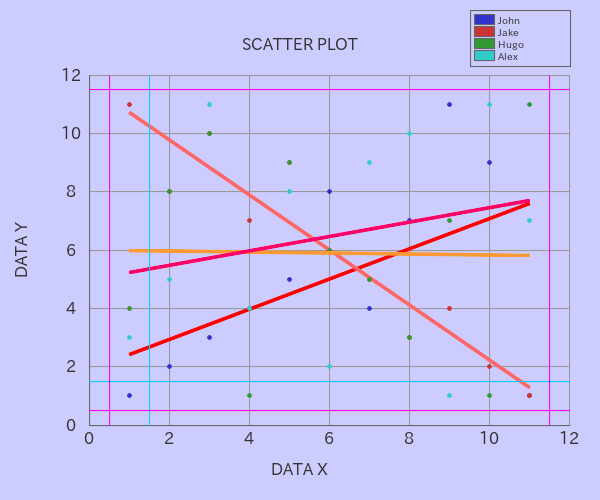
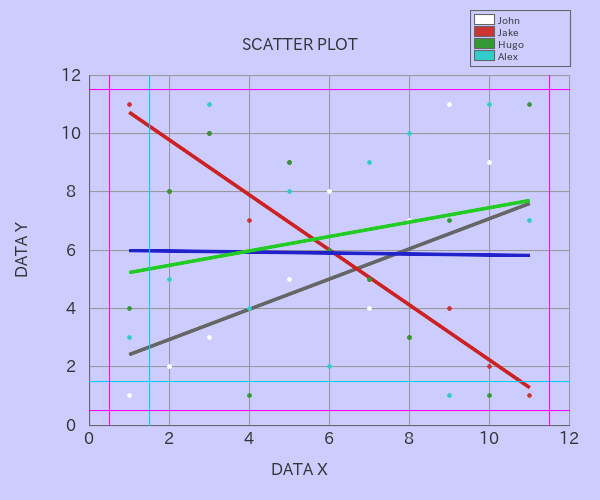
Release 1.0.0

diff --git a/src/Scatterplot.php b/src/Scatterplot.php
@@ -219,13 +219,18 @@ class Scatterplot extends Plotter
 
     /**
      * sets the color of dots
-     * @param string $color
+     * @param array $color
      * @return self
      */
-    public function color($color)
+    public function colors($colors)
     {
-        if (!$this->isColorCode($color)) return;
-        $this->plotColor = $color;
+        if (!is_array($colors)) return;
+        foreach ($colors as $index => $color) {
+            if (!is_int($index)) return;
+            if ($index < 0 || $index > LIMIT_LAYERS) return;
+            if (!$this->isColorCode($color)) return;
+            $this->colors[$index] = $color;
+        }
         return $this;
     }
 
@@ -374,17 +379,22 @@ class Scatterplot extends Plotter
     /**
      * sets the width and color of the regression line
      * @param integer $width
-     * @param string $color
+     * @param array $color
      * @return self
      */
-    public function regressionLine($width, $color)
+    public function regressionLine($width, $colors)
     {
         if (!is_int($width)) return;
         if ($width < 1) return;
-        if (!$this->isColorCode($color)) return;
+        if (!is_array($colors)) return;
+        foreach ($colors as $index => $color) {
+            if (!is_int($index)) return;
+            if ($index < 0 || $index > LIMIT_LAYERS) return;
+            if (!$this->isColorCode($color)) return;
+            $this->regressionLineColors[$index] = $color;
+        }
         $this->regressionLine = true;
         $this->regressionLineWidth = $width;
-        $this->regressionLineColor = $color;
         return $this;
     }
 
@@ -564,6 +574,15 @@ class Scatterplot extends Plotter
     {
         $this->specificationLimitXOff();
         $this->specificationLimitYOff();
+        return $this;
+    }
+
+    /**
+     * sets regression line on
+     */
+    public function regressionLineOn()
+    {
+        $this->regressionLine = true;
         return $this;
     }
 

diff --git a/example/ChangingProperties.php b/example/ChangingProperties.php
@@ -32,13 +32,13 @@ $sp->layers($layers)
    ->gridXPitch(2)
    ->gridYPitch(2)
    ->bgcolor('#ccccff')
-   ->color('#ffffff')
+   ->colors(['#ffffff'])
    ->plotSize(4)
    ->fontColor('#333333')
    ->grid(1, '#999999')
    ->gridXOn()
    ->gridYOn()
-   ->regressionLine(3, '#cc2222')
+   ->regressionLine(3, ['#666666', '#cc2222', '#2222cc', '#22cc22'])
    ->referenceLineX(1.5, 1, '#00ccff')
    ->referenceLineY(1.5, 1, '#00ccff')
    ->specificationLimitX(0.5, 11.5, 1, '#ff00ff')

diff --git a/src/Plotter.php b/src/Plotter.php
@@ -37,7 +37,7 @@ class Plotter extends Analyzer
     protected $yLimitUpper;
     protected $yLimitLower;
     protected $plotDiameter = 2;
-    protected $plotColor = '#000000';
+    protected $plotColors = '#000000';
     protected $fontPath = 'fonts/ipaexg.ttf'; // IPA ex Gothic 00401
     //protected $fontPath = 'fonts/ipaexm.ttf'; // IPA ex Mincho 00401
     protected $fontSize = 16;

diff --git a/example/ParsedData.php b/example/ParsedData.php
@@ -1,9 +1,9 @@
 <?php
 require('../vendor/autoload.php');
 
-use Macocci7\PhpScatterplot\Scatterplot;
+use Macocci7\PhpScatterplot\Analyzer;
 
-$sp = new Scatterplot();
+$a = new Analyzer();
 
 $layers = [
     'John' => [
@@ -16,4 +16,4 @@ $layers = [
     ],
 ];
 
-var_dump($sp->parse($layers));
+var_dump($a->parse($layers));

diff --git a/README.md b/README.md
@@ -17,6 +17,7 @@ Correlation Coefficient and Regression Line Formula.
     - [Basic Usage](#basic-usage)
     - [Using Layers](#using-layers)
     - [Changing Properties](#changing-properties)
+    - [Parsed Data](#parsed-data)
 - [Example](#example)
 - [License](#license)
 
@@ -135,13 +136,13 @@ composer require macocci7/php-scatterplot
         ->gridXPitch(2)
         ->gridYPitch(2)
         ->bgcolor('#ccccff')
-        ->color('#ffffff')
+        ->colors(['#ffffff'])
         ->plotSize(4)
         ->fontColor('#333333')
         ->grid(1, '#999999')
         ->gridXOn()
         ->gridYOn()
-        ->regressionLine(3, '#cc2222')
+        ->regressionLine(3, ['#666666', '#cc2222', '#2222cc', '#22cc22'])
         ->referenceLineX(1.5, 1, '#00ccff')
         ->referenceLineY(1.5, 1, '#00ccff')
         ->specificationLimitX(0.5, 11.5, 1, '#ff00ff')
@@ -165,9 +166,9 @@ composer require macocci7/php-scatterplot
     <?php
     require('../vendor/autoload.php');
 
-    use Macocci7\PhpScatterplot\Scatterplot;
+    use Macocci7\PhpScatterplot\Analyzer;
 
-    $sp = new Scatterplot();
+    $a = new Analyzer();
 
     $layers = [
         'John' => [
@@ -180,7 +181,7 @@ composer require macocci7/php-scatterplot
         ],
     ];
 
-    var_dump($sp->parse($layers));
+    var_dump($a->parse($layers));
     ```
 
 - Result
@@ -289,6 +290,6 @@ composer require macocci7/php-scatterplot
 
 *Document written: 2023/06/06*
 
-*Document updated: 2023/06/06*
+*Document updated: 2023/06/07*
 
 Copyright 2023 macocci7.

diff --git a/example/ChangingProperties.md b/example/ChangingProperties.md
@@ -60,7 +60,7 @@
 |legends|[John, Jake, Hugo, Alex]|
 |legendWidth|100|
 |legendFontSize|10|
-|colors|[#3333cc, #cc3333, #339933, #33cccc, #cc3333, #ffcc33, #cccc33, #cc33cc]|
+|colors|[#ffffff, #cc3333, #339933, #33cccc, #cc3333, #ffcc33, #cccc33, #cc33cc]|
 </details>
 
 <details><summary>Regression Line Formula</summary>
